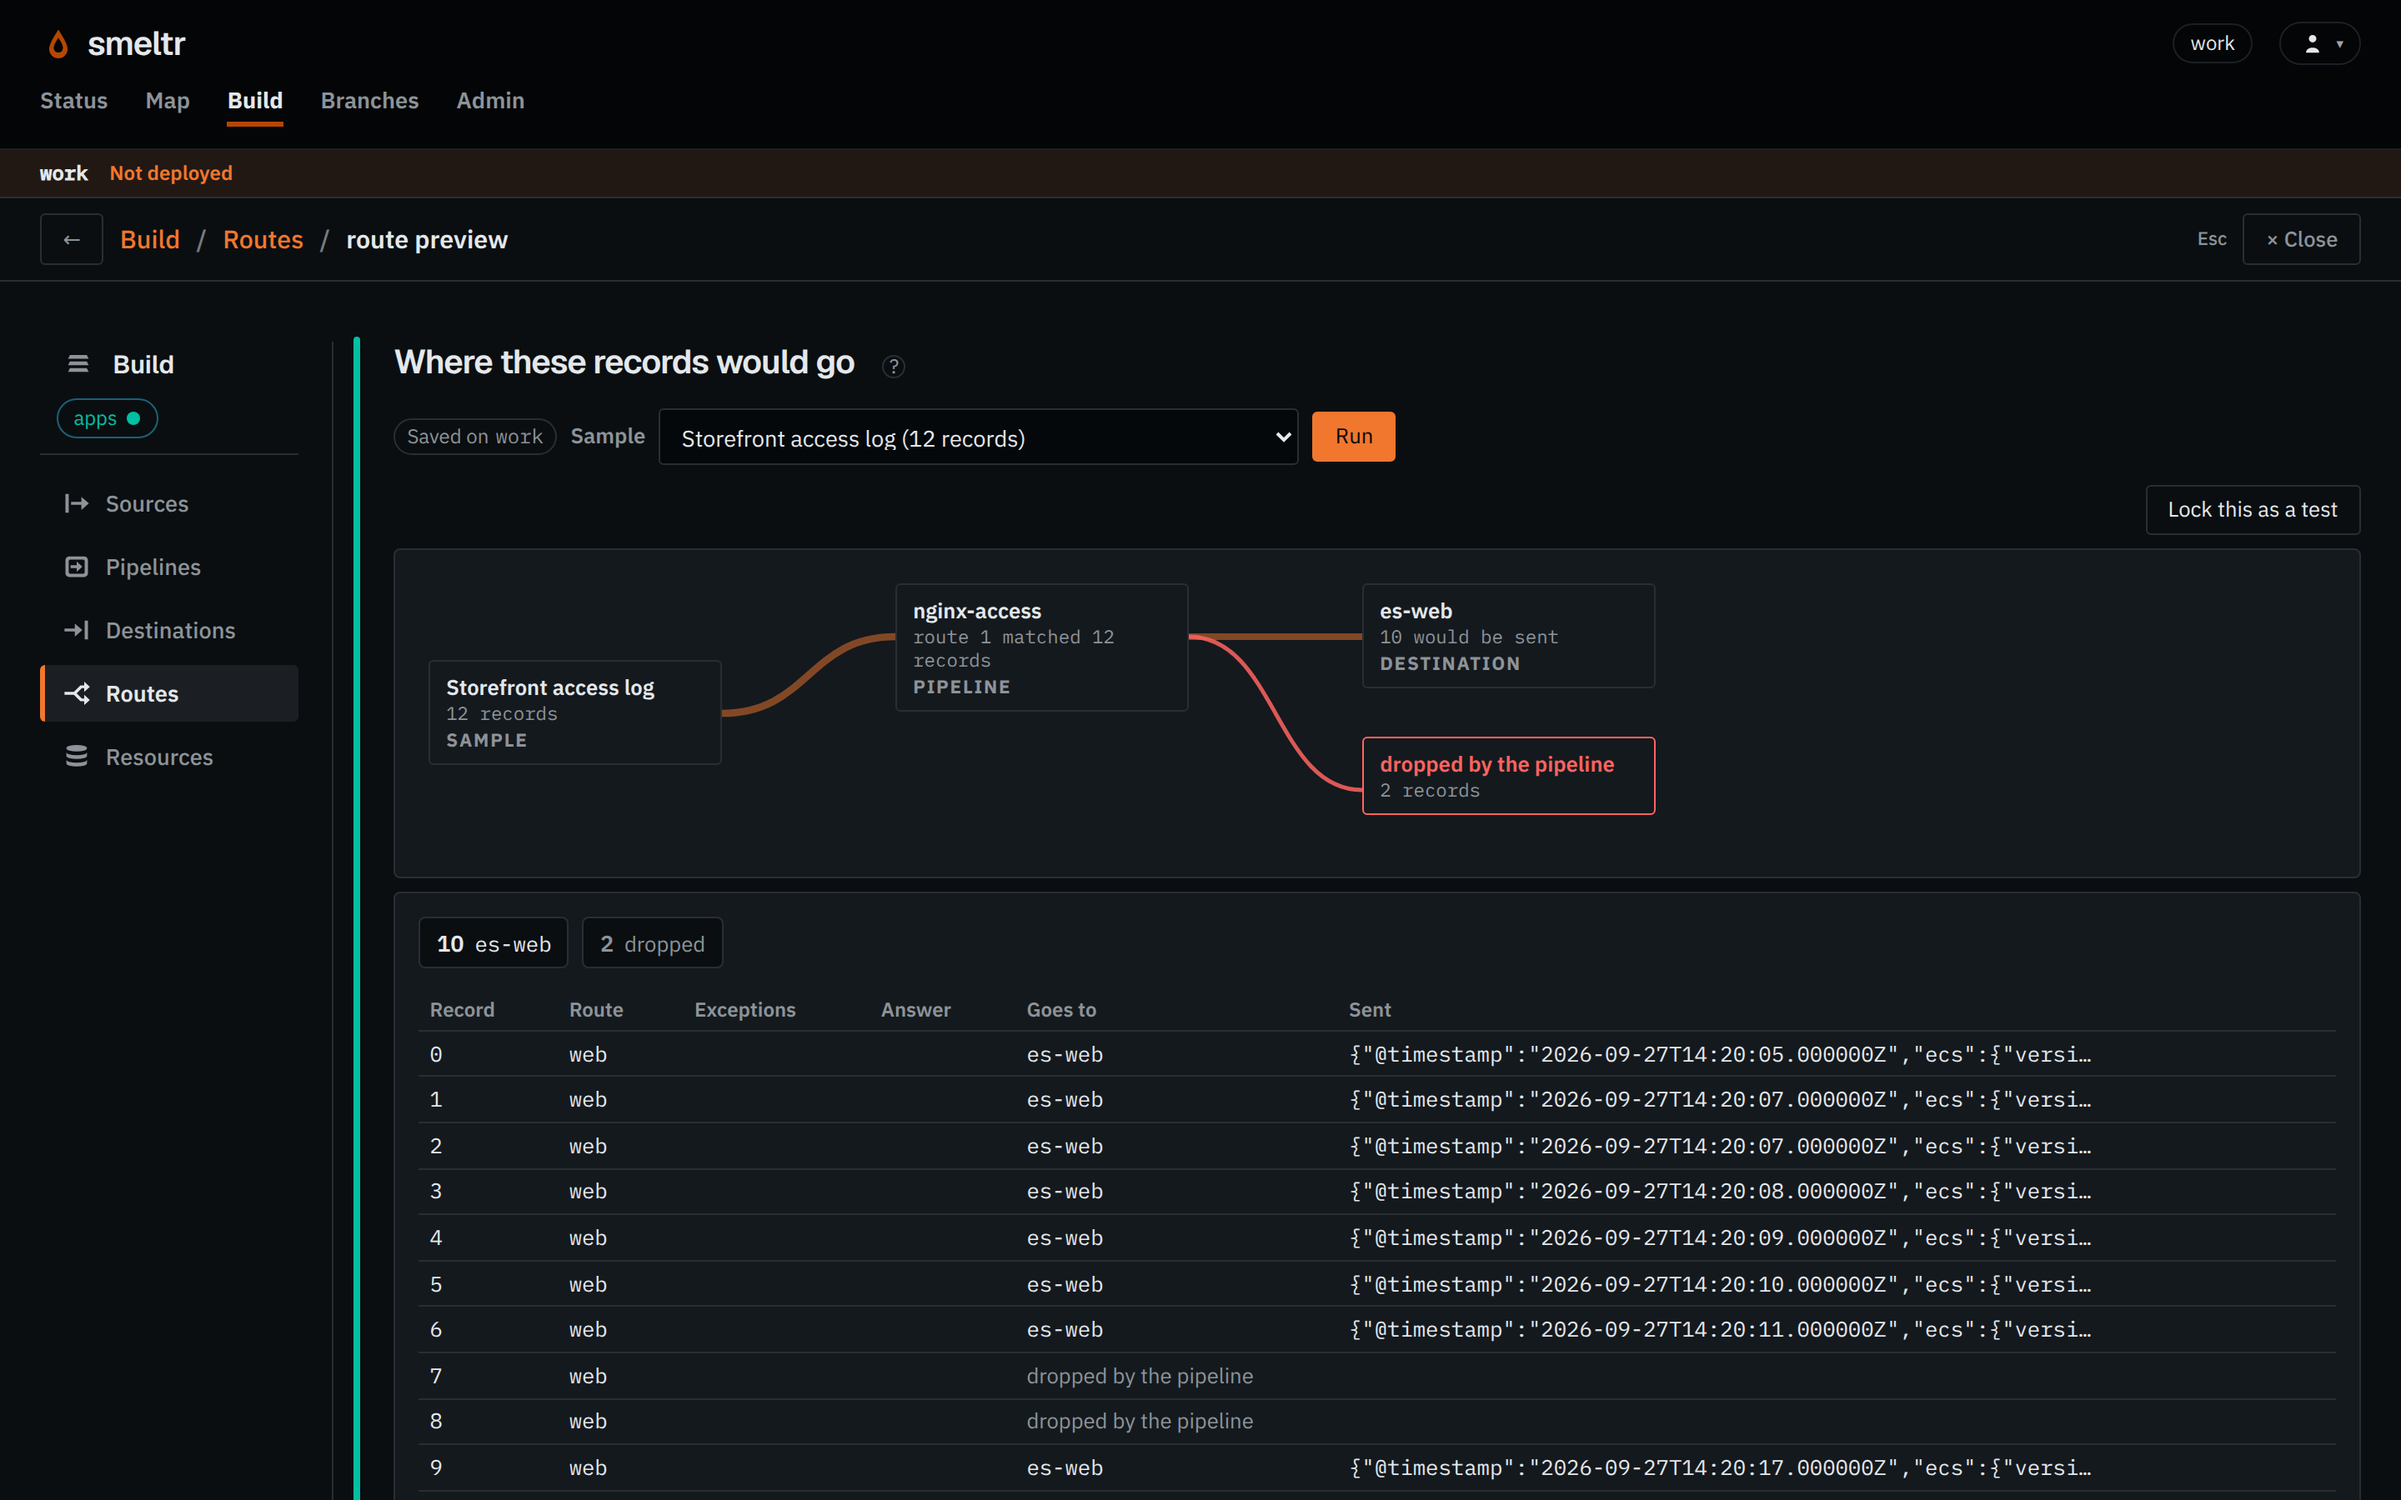
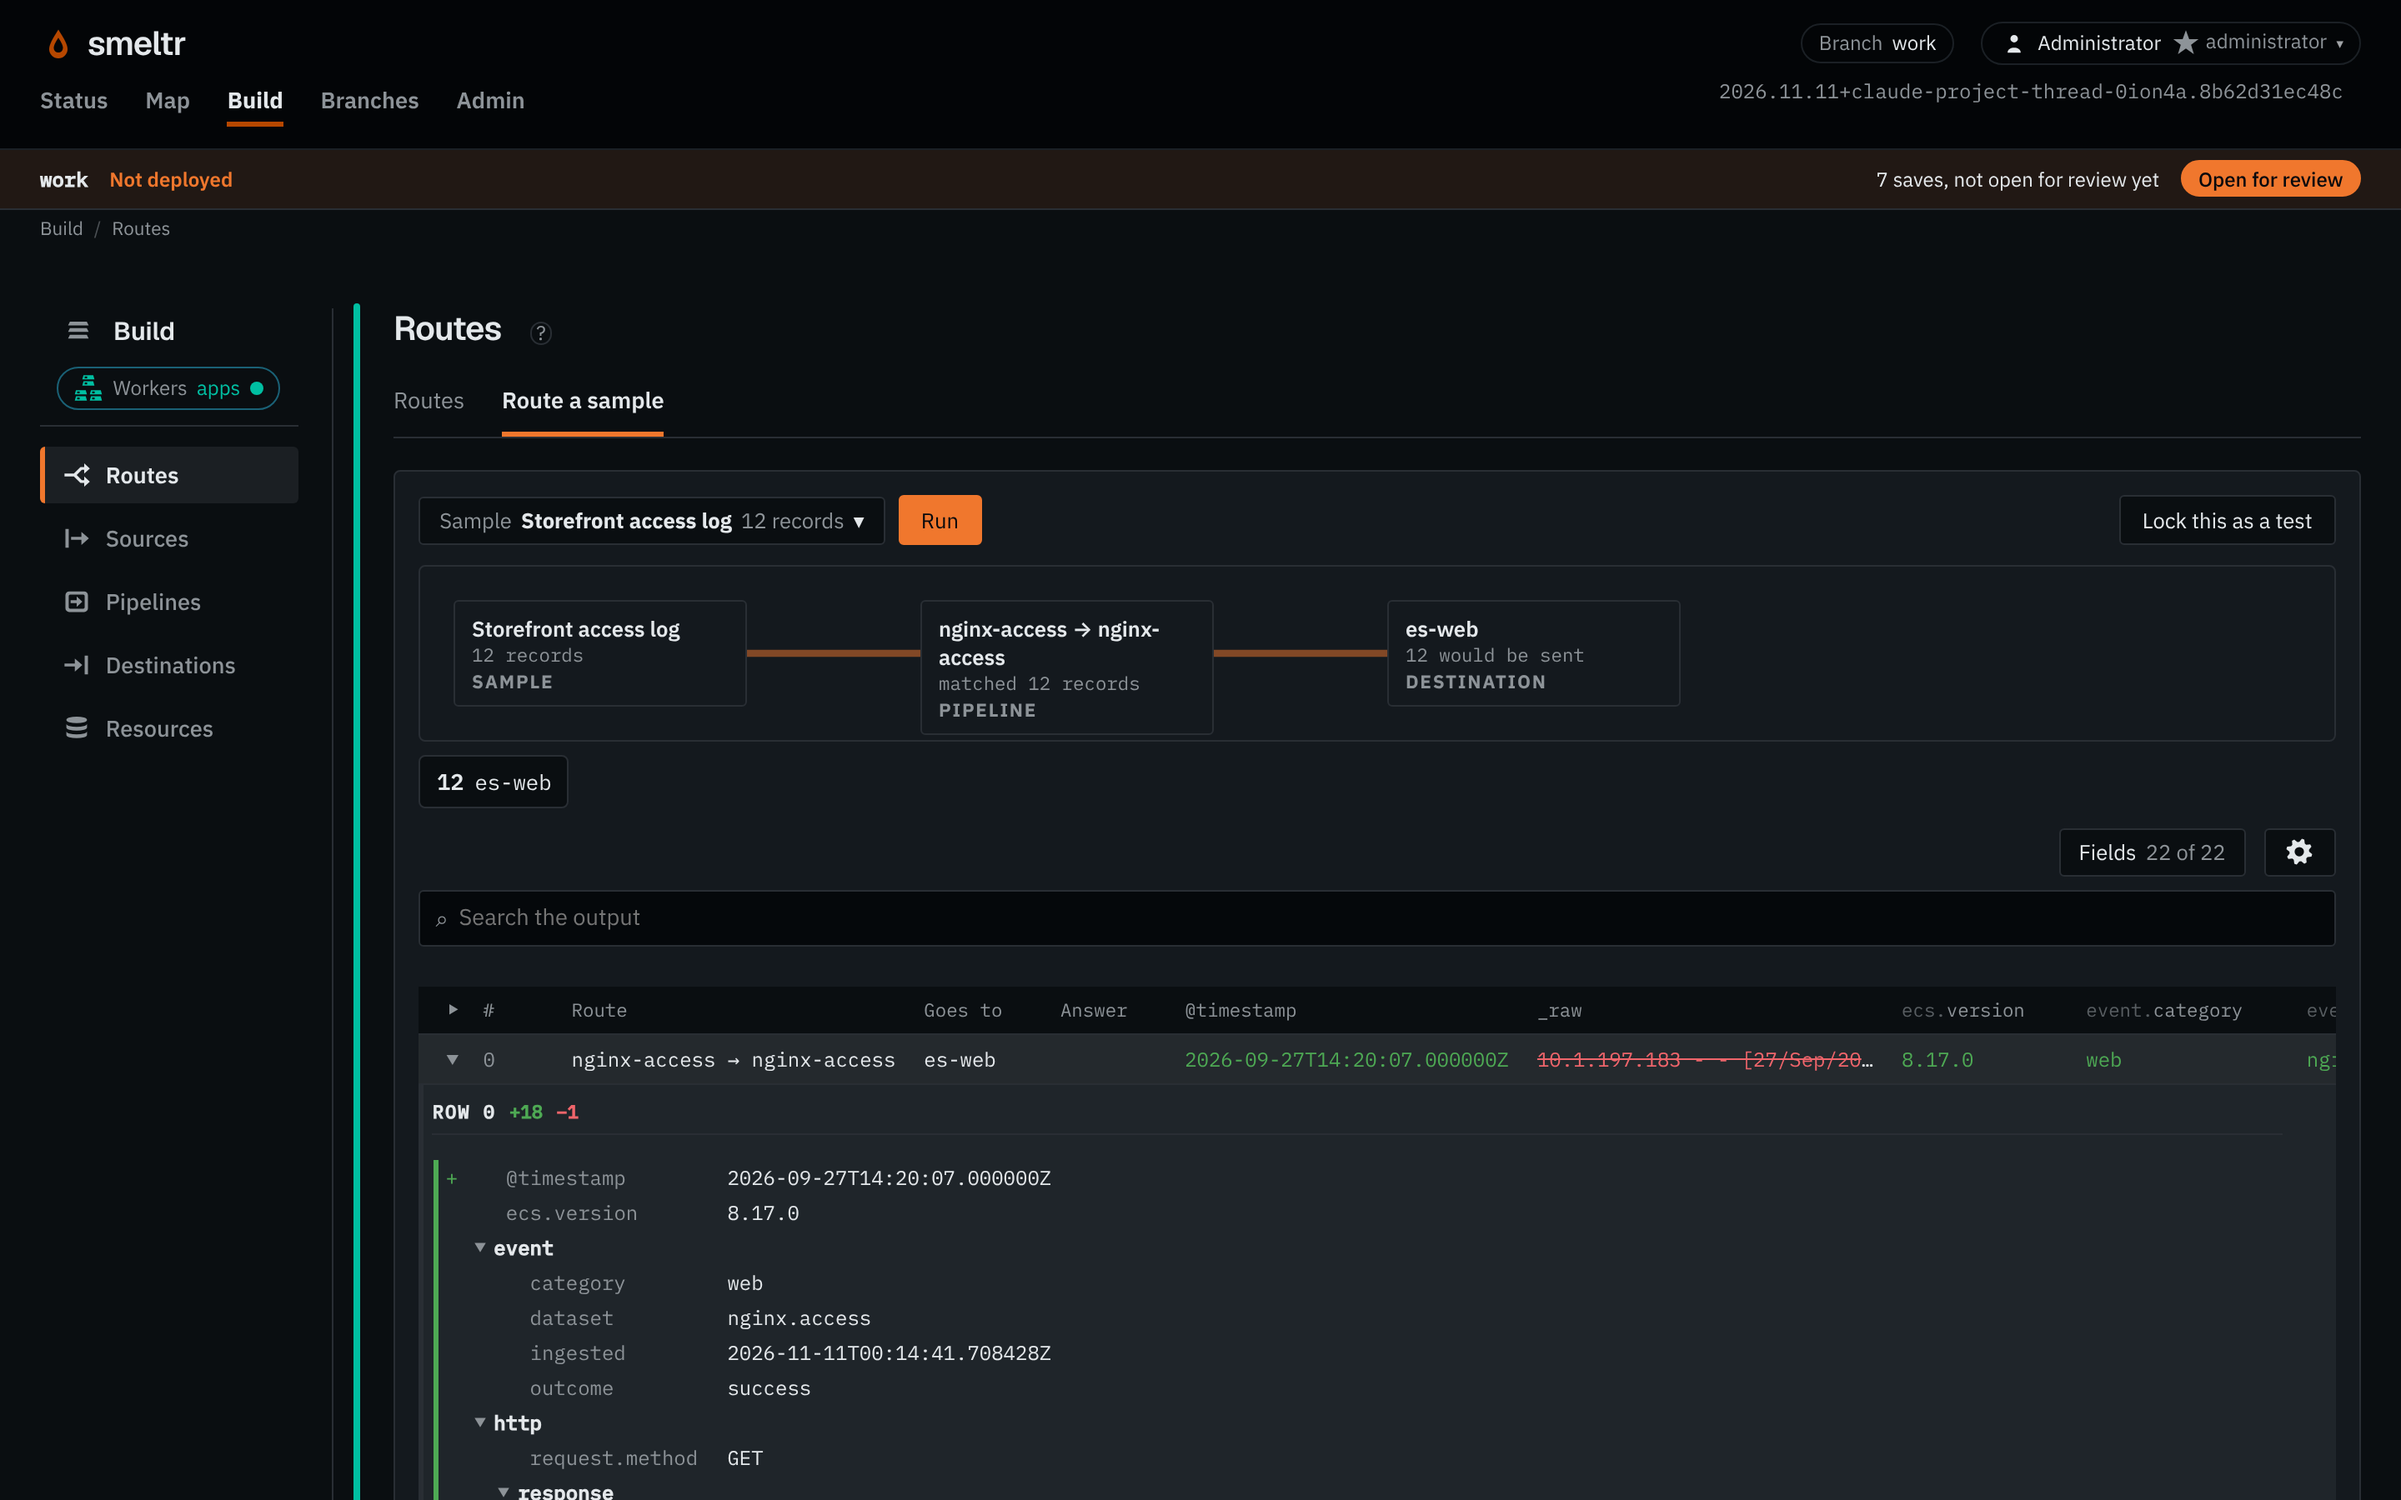
Retake the Route a sample screenshot on the Routing records page (#665)
The diagram now names each route; the staged sample sends all 12 records to
es-web, so the alt text and caption say so.

Claude-Session: https://claude.ai/code/session_016X7h2Rs3LeTQDWYpPDYYqg

diff --git a/website/src/routes/docs/routing/records/+page.svelte b/website/src/routes/docs/routing/records/+page.svelte
@@ -74,8 +74,8 @@
   <ProductScreenshot
     source="route-preview"
     height={1800}
-    crop={{ x: 720, y: 403, width: 1870, height: 660 }}
-    alt="Route preview for 12 storefront access records: all enter nginx-access, ten would go to es-web, and two are dropped by the pipeline."
-    caption="This preview accounts for all 12 sample records: Smeltr would send 10, and the pipeline drops 2. Preview does not deliver data."
+    crop={{ x: 500, y: 580, width: 2310, height: 315 }}
+    alt="Route a sample for 12 storefront access records: the route nginx-access → nginx-access matches all 12, and es-web would receive them."
+    caption="The route matches all 12 sample records, and Smeltr would send all 12 to es-web. A preview does not deliver data."
   />
 </GuideLayout>
